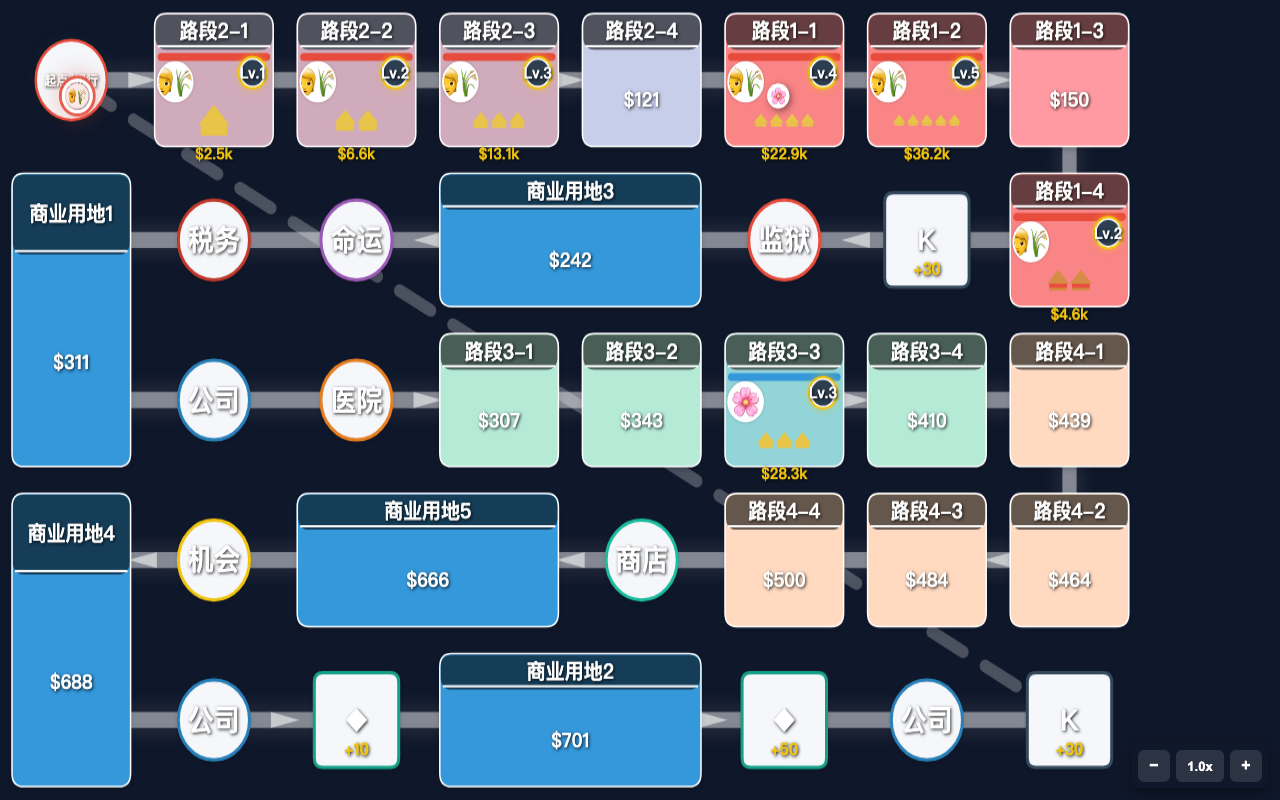
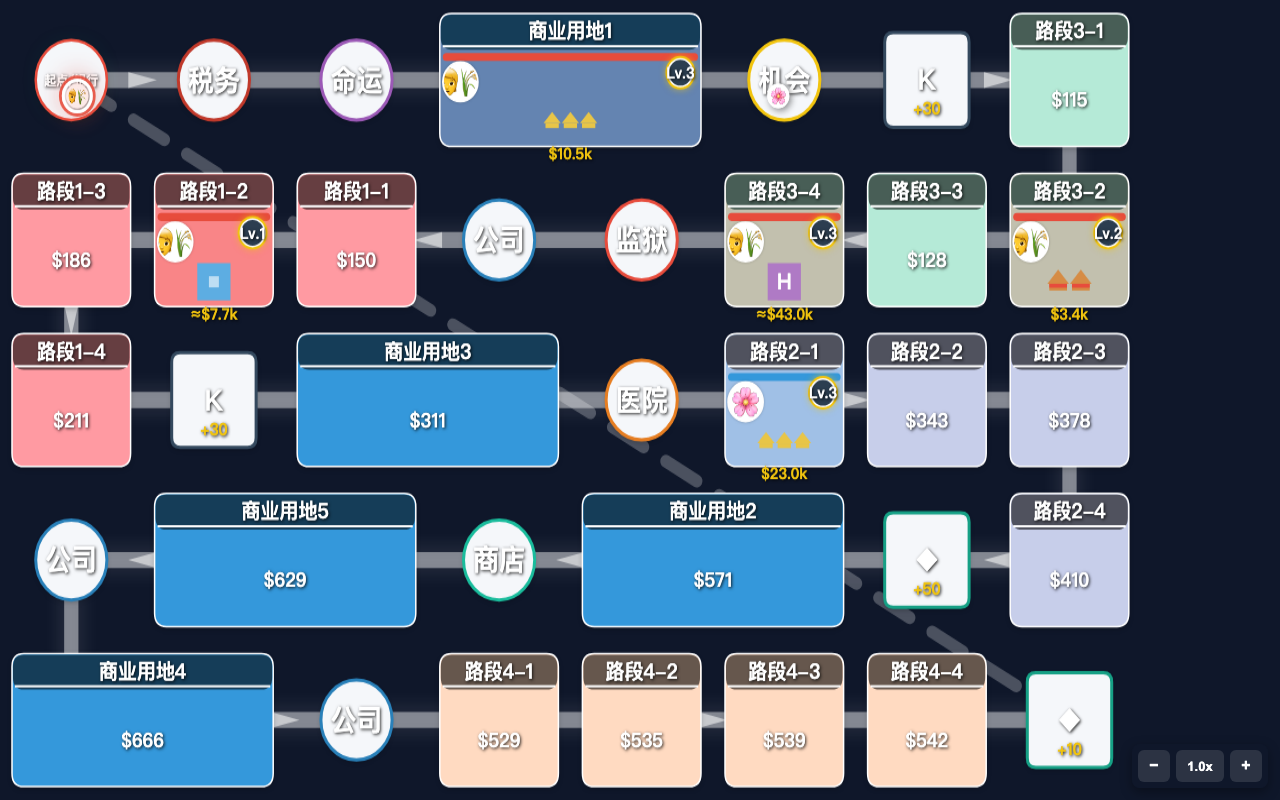
fix(ui): 修复 canvas 重建 replaceChild 报错与股票/背包面板过窄折叠失效
- game.ts: canvas 重建时增加父节点校验，避免 NotFoundError

- style.css: 侧边栏最小宽度、1200px 单列响应式、折叠内容隐藏修正

- style.css: 股市表格横向滚动、背包卡片网格自适应换行

diff --git a/packages/frontend/src/style.css b/packages/frontend/src/style.css
@@ -642,7 +642,7 @@ select:focus {
 
 .game-layout {
   display: grid;
-  grid-template-columns: 2fr 1fr;
+  grid-template-columns: minmax(0, 2fr) minmax(320px, 1fr);
   gap: var(--space-md);
   align-items: stretch;
 }
@@ -865,7 +865,7 @@ select:focus {
 .card-grid,
 .item-grid {
   display: grid;
-  grid-template-columns: repeat(3, 1fr);
+  grid-template-columns: repeat(auto-fill, minmax(72px, 1fr));
   gap: 6px;
 }
 
@@ -1003,31 +1003,37 @@ select:focus {
 
 .stock-top-panel {
   max-height: 240px;
-  overflow-y: auto;
+  overflow: hidden;
   transition: max-height 0.25s ease;
 }
 
 .stock-top-panel.collapsed {
   max-height: none;
-  overflow-y: visible;
+}
+
+.stock-top-panel.collapsed > #stock-market {
+  display: none;
 }
 
 .backpack-wide-panel {
   max-height: 280px;
-  overflow-y: auto;
+  overflow: hidden;
   transition: max-height 0.25s ease;
 }
 
 .backpack-wide-panel.collapsed {
   max-height: none;
-  overflow-y: visible;
+}
+
+.backpack-wide-panel.collapsed > #backpack-wide-content {
+  display: none;
 }
 
 .stock-top-panel > #stock-market,
 .backpack-wide-panel > #backpack-wide-content {
   flex: 1;
   min-height: 0;
-  overflow-y: auto;
+  overflow: auto;
 }
 
 .stock-top-header,
@@ -1076,8 +1082,10 @@ select:focus {
 /* 股市表格 */
 .stock-table {
   width: 100%;
+  min-width: 560px;
   border-collapse: collapse;
   font-size: var(--font-size-sm);
+  white-space: nowrap;
 }
 
 .stock-table th,
@@ -1115,7 +1123,7 @@ select:focus {
   font-weight: 700;
 }
 
-@media (max-width: 900px) {
+@media (max-width: 1200px) {
   .room-content,
   .game-layout {
     grid-template-columns: 1fr;
@@ -1123,6 +1131,13 @@ select:focus {
 
   .side-panel {
     max-height: none;
+    display: grid;
+    grid-template-columns: repeat(auto-fit, minmax(300px, 1fr));
+    gap: var(--space-md);
+  }
+
+  .info-card {
+    min-width: 0;
   }
 
   .game-body {

diff --git a/packages/frontend/src/pages/game.ts b/packages/frontend/src/pages/game.ts
@@ -351,7 +351,13 @@ export async function renderGamePage(roomId: string): Promise<void> {
     if (String(state.map.tiles.length) !== canvas.dataset.tileCount) {
       const oldCanvas = canvas;
       const newCanvas = createBoardCanvas(state.map.tiles.length);
-      boardWrap.replaceChild(newCanvas, oldCanvas);
+      // 防止旧 canvas 因页面切换/清理已不在 boardWrap 中导致 replaceChild 报错
+      if (oldCanvas.parentNode === boardWrap) {
+        boardWrap.replaceChild(newCanvas, oldCanvas);
+      } else {
+        boardWrap.querySelectorAll('canvas').forEach((c) => c.remove());
+        boardWrap.appendChild(newCanvas);
+      }
       gameCanvas = newCanvas;
       attachBoardEvents(newCanvas);
       currentHoverIndex = -1;